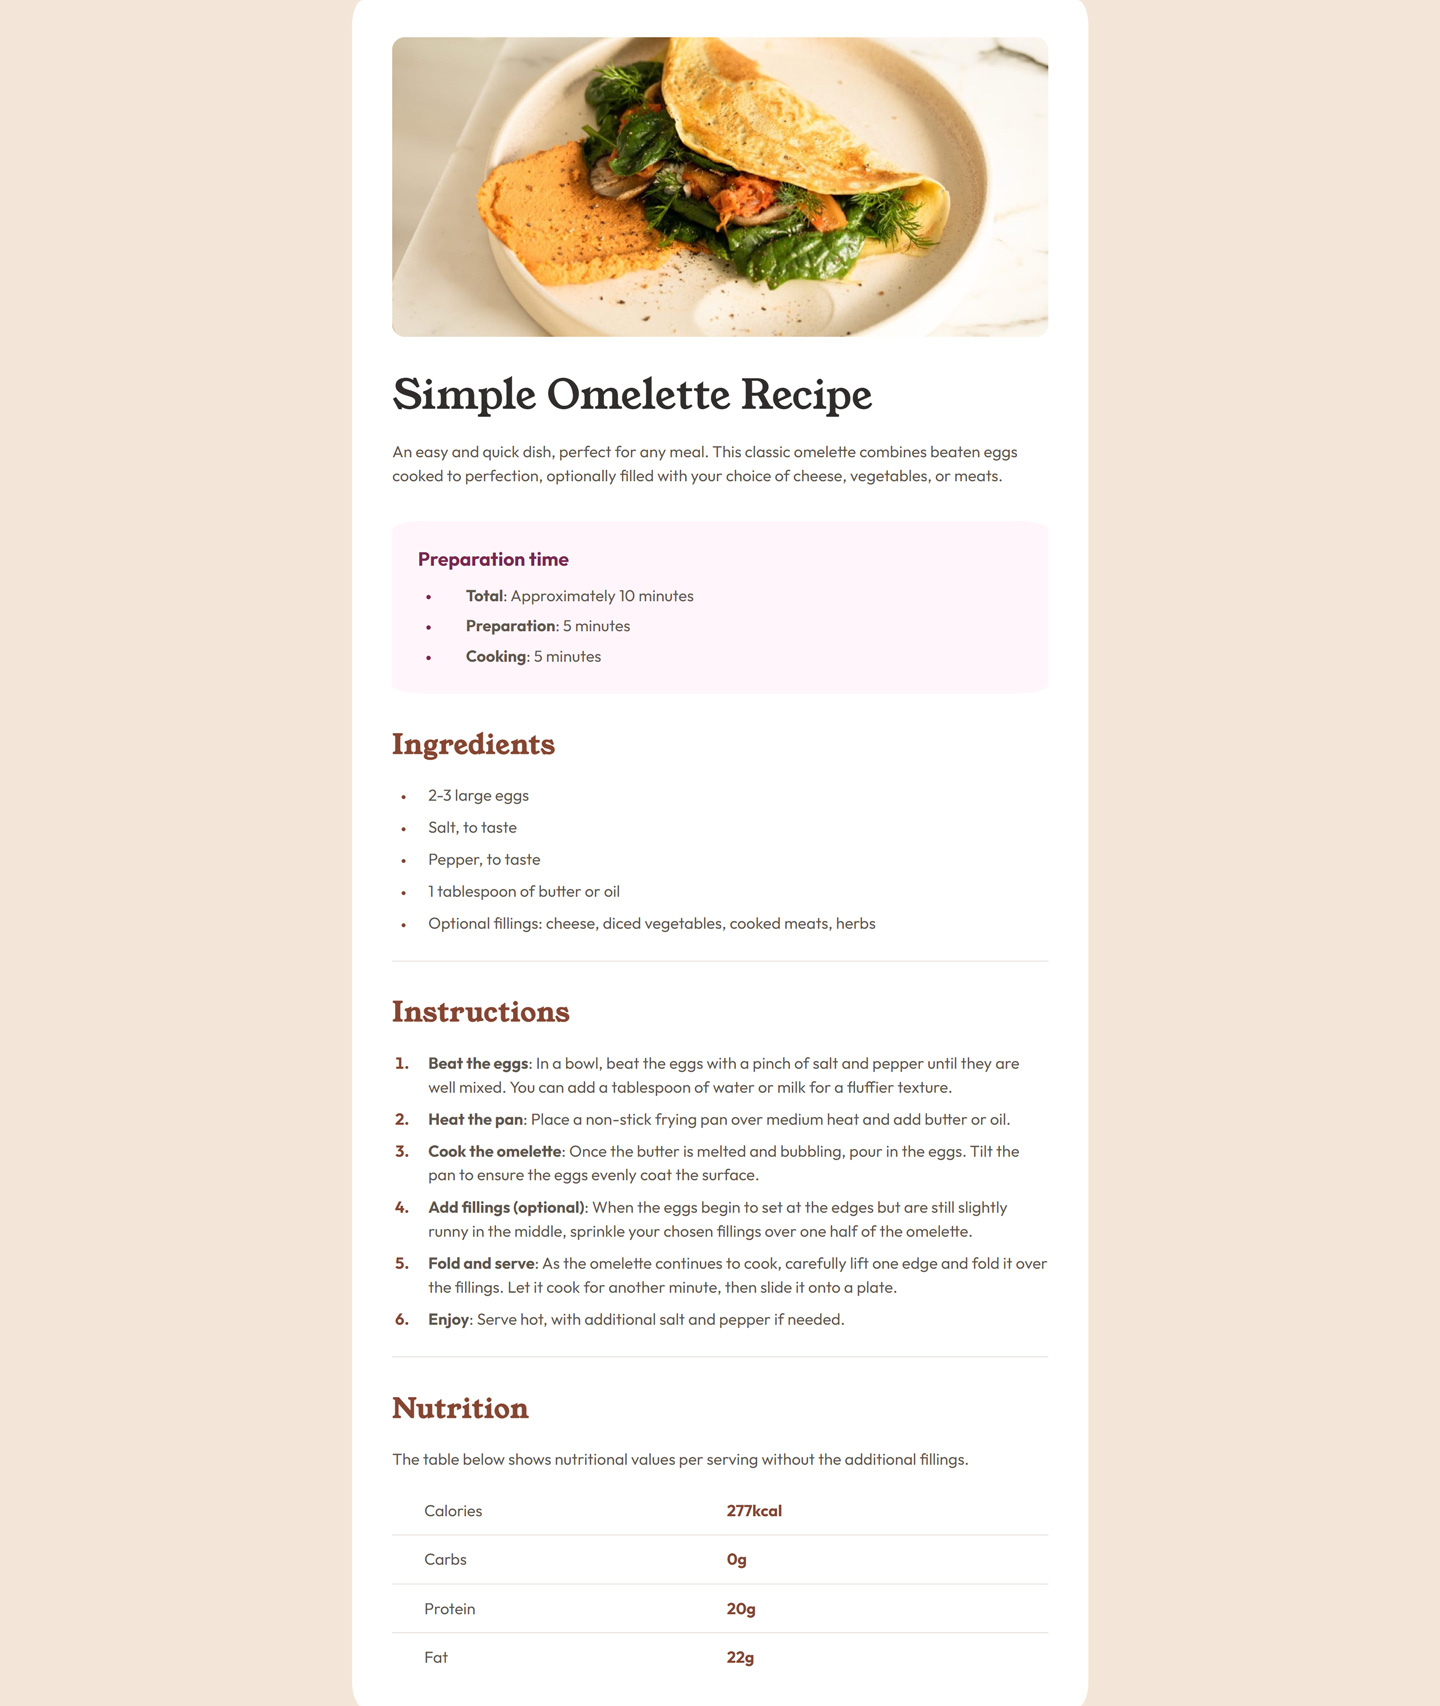
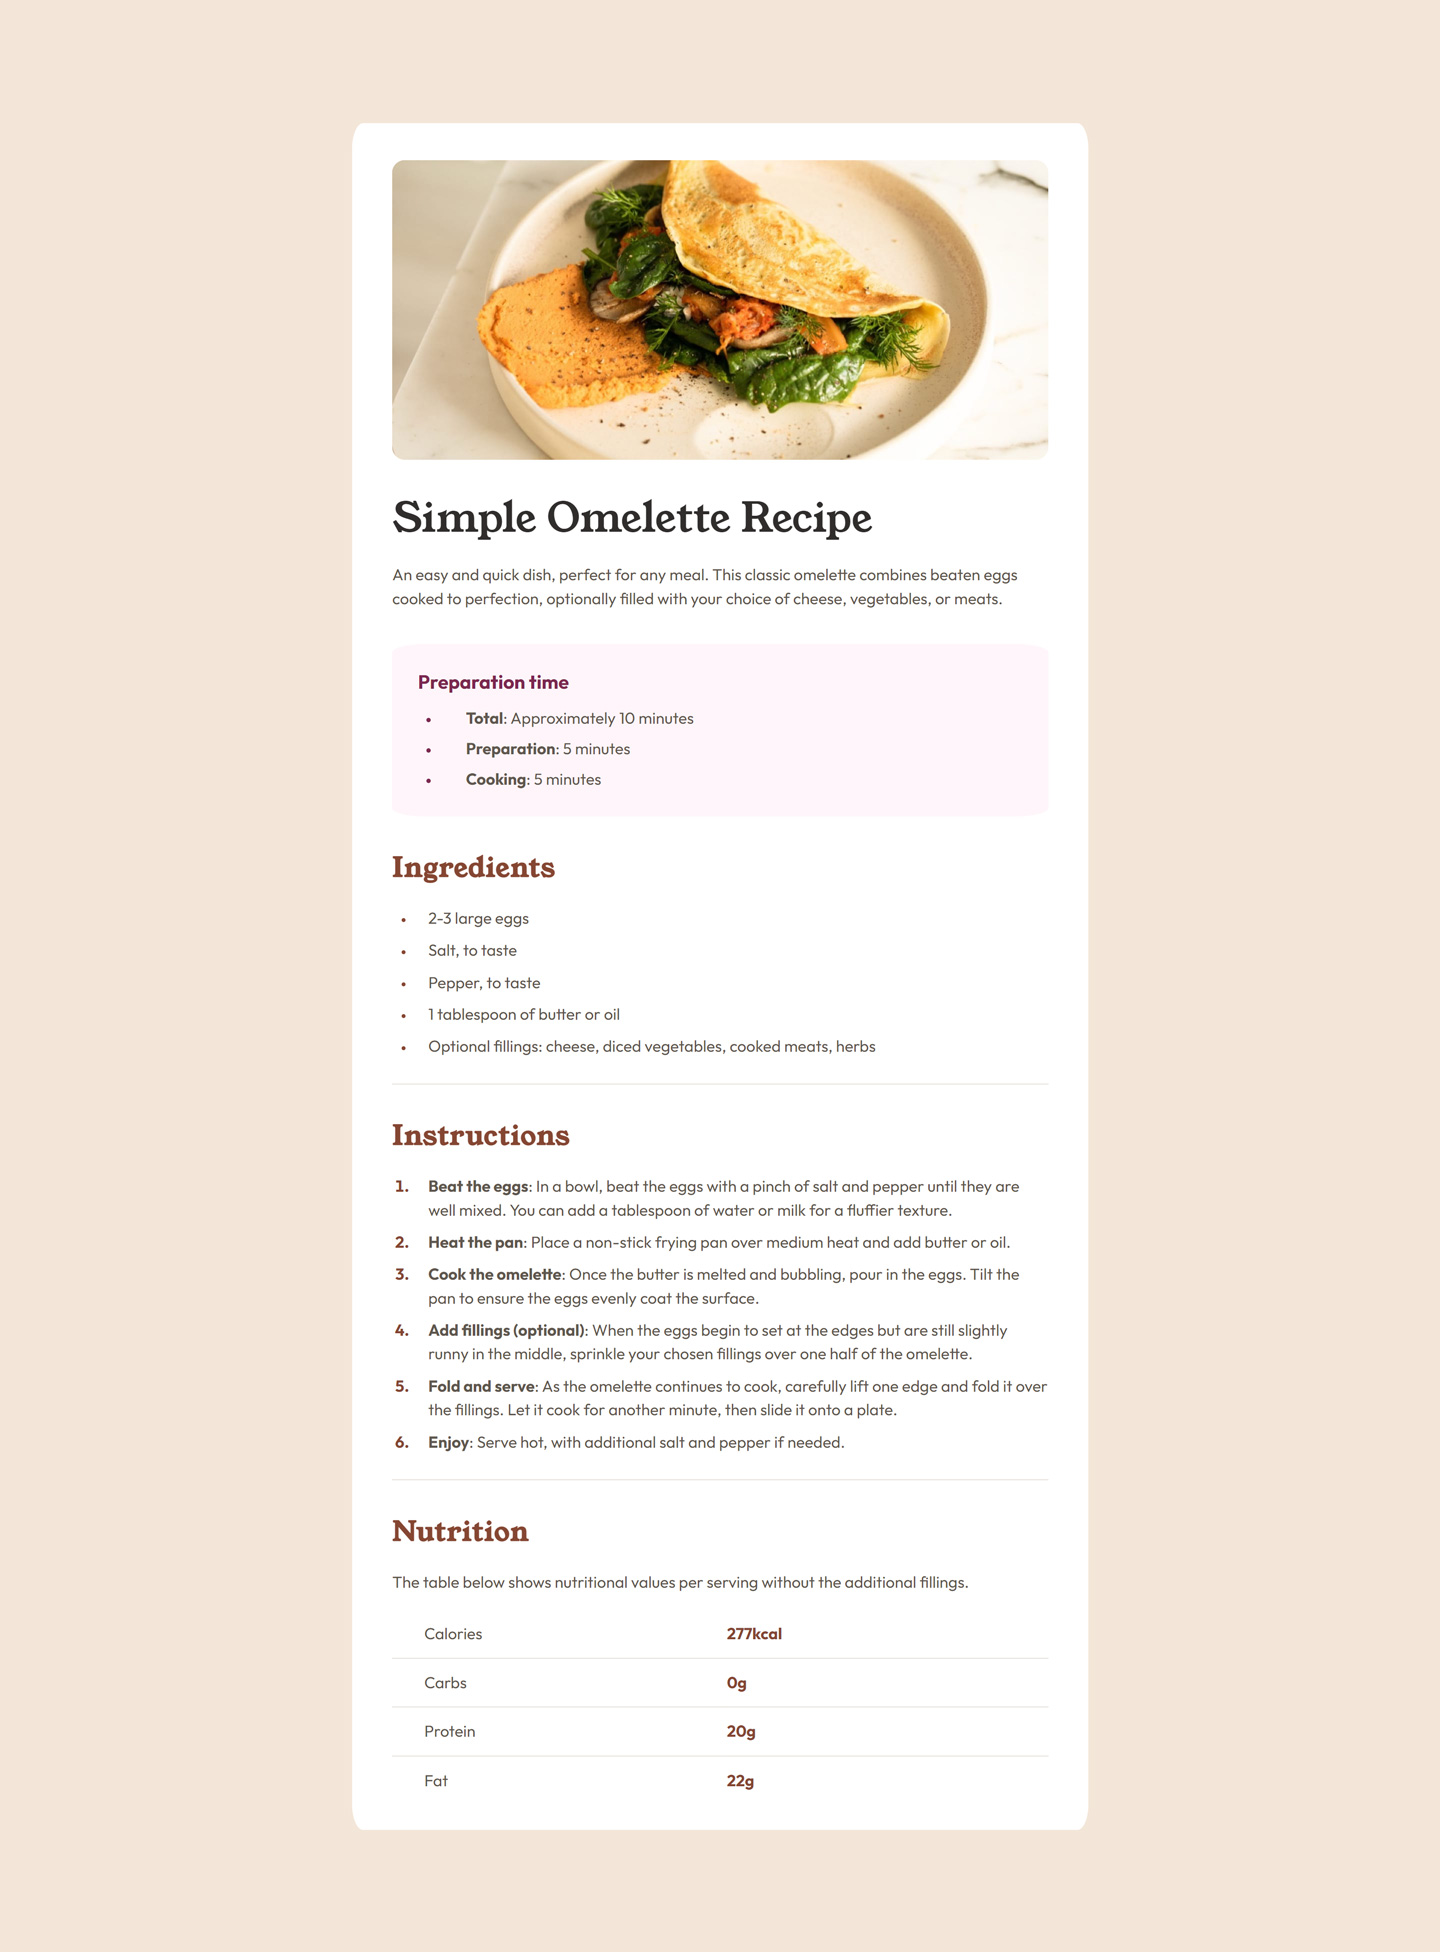
added top and bottom container margins

diff --git a/assets/css/style.css b/assets/css/style.css
@@ -111,7 +111,7 @@ img {
 */
 
 .container {
-    margin: auto;
+    margin: 123px auto;
     max-width: var(--container-max-width-mobile);
     background: var(--color-neutral);
 }
